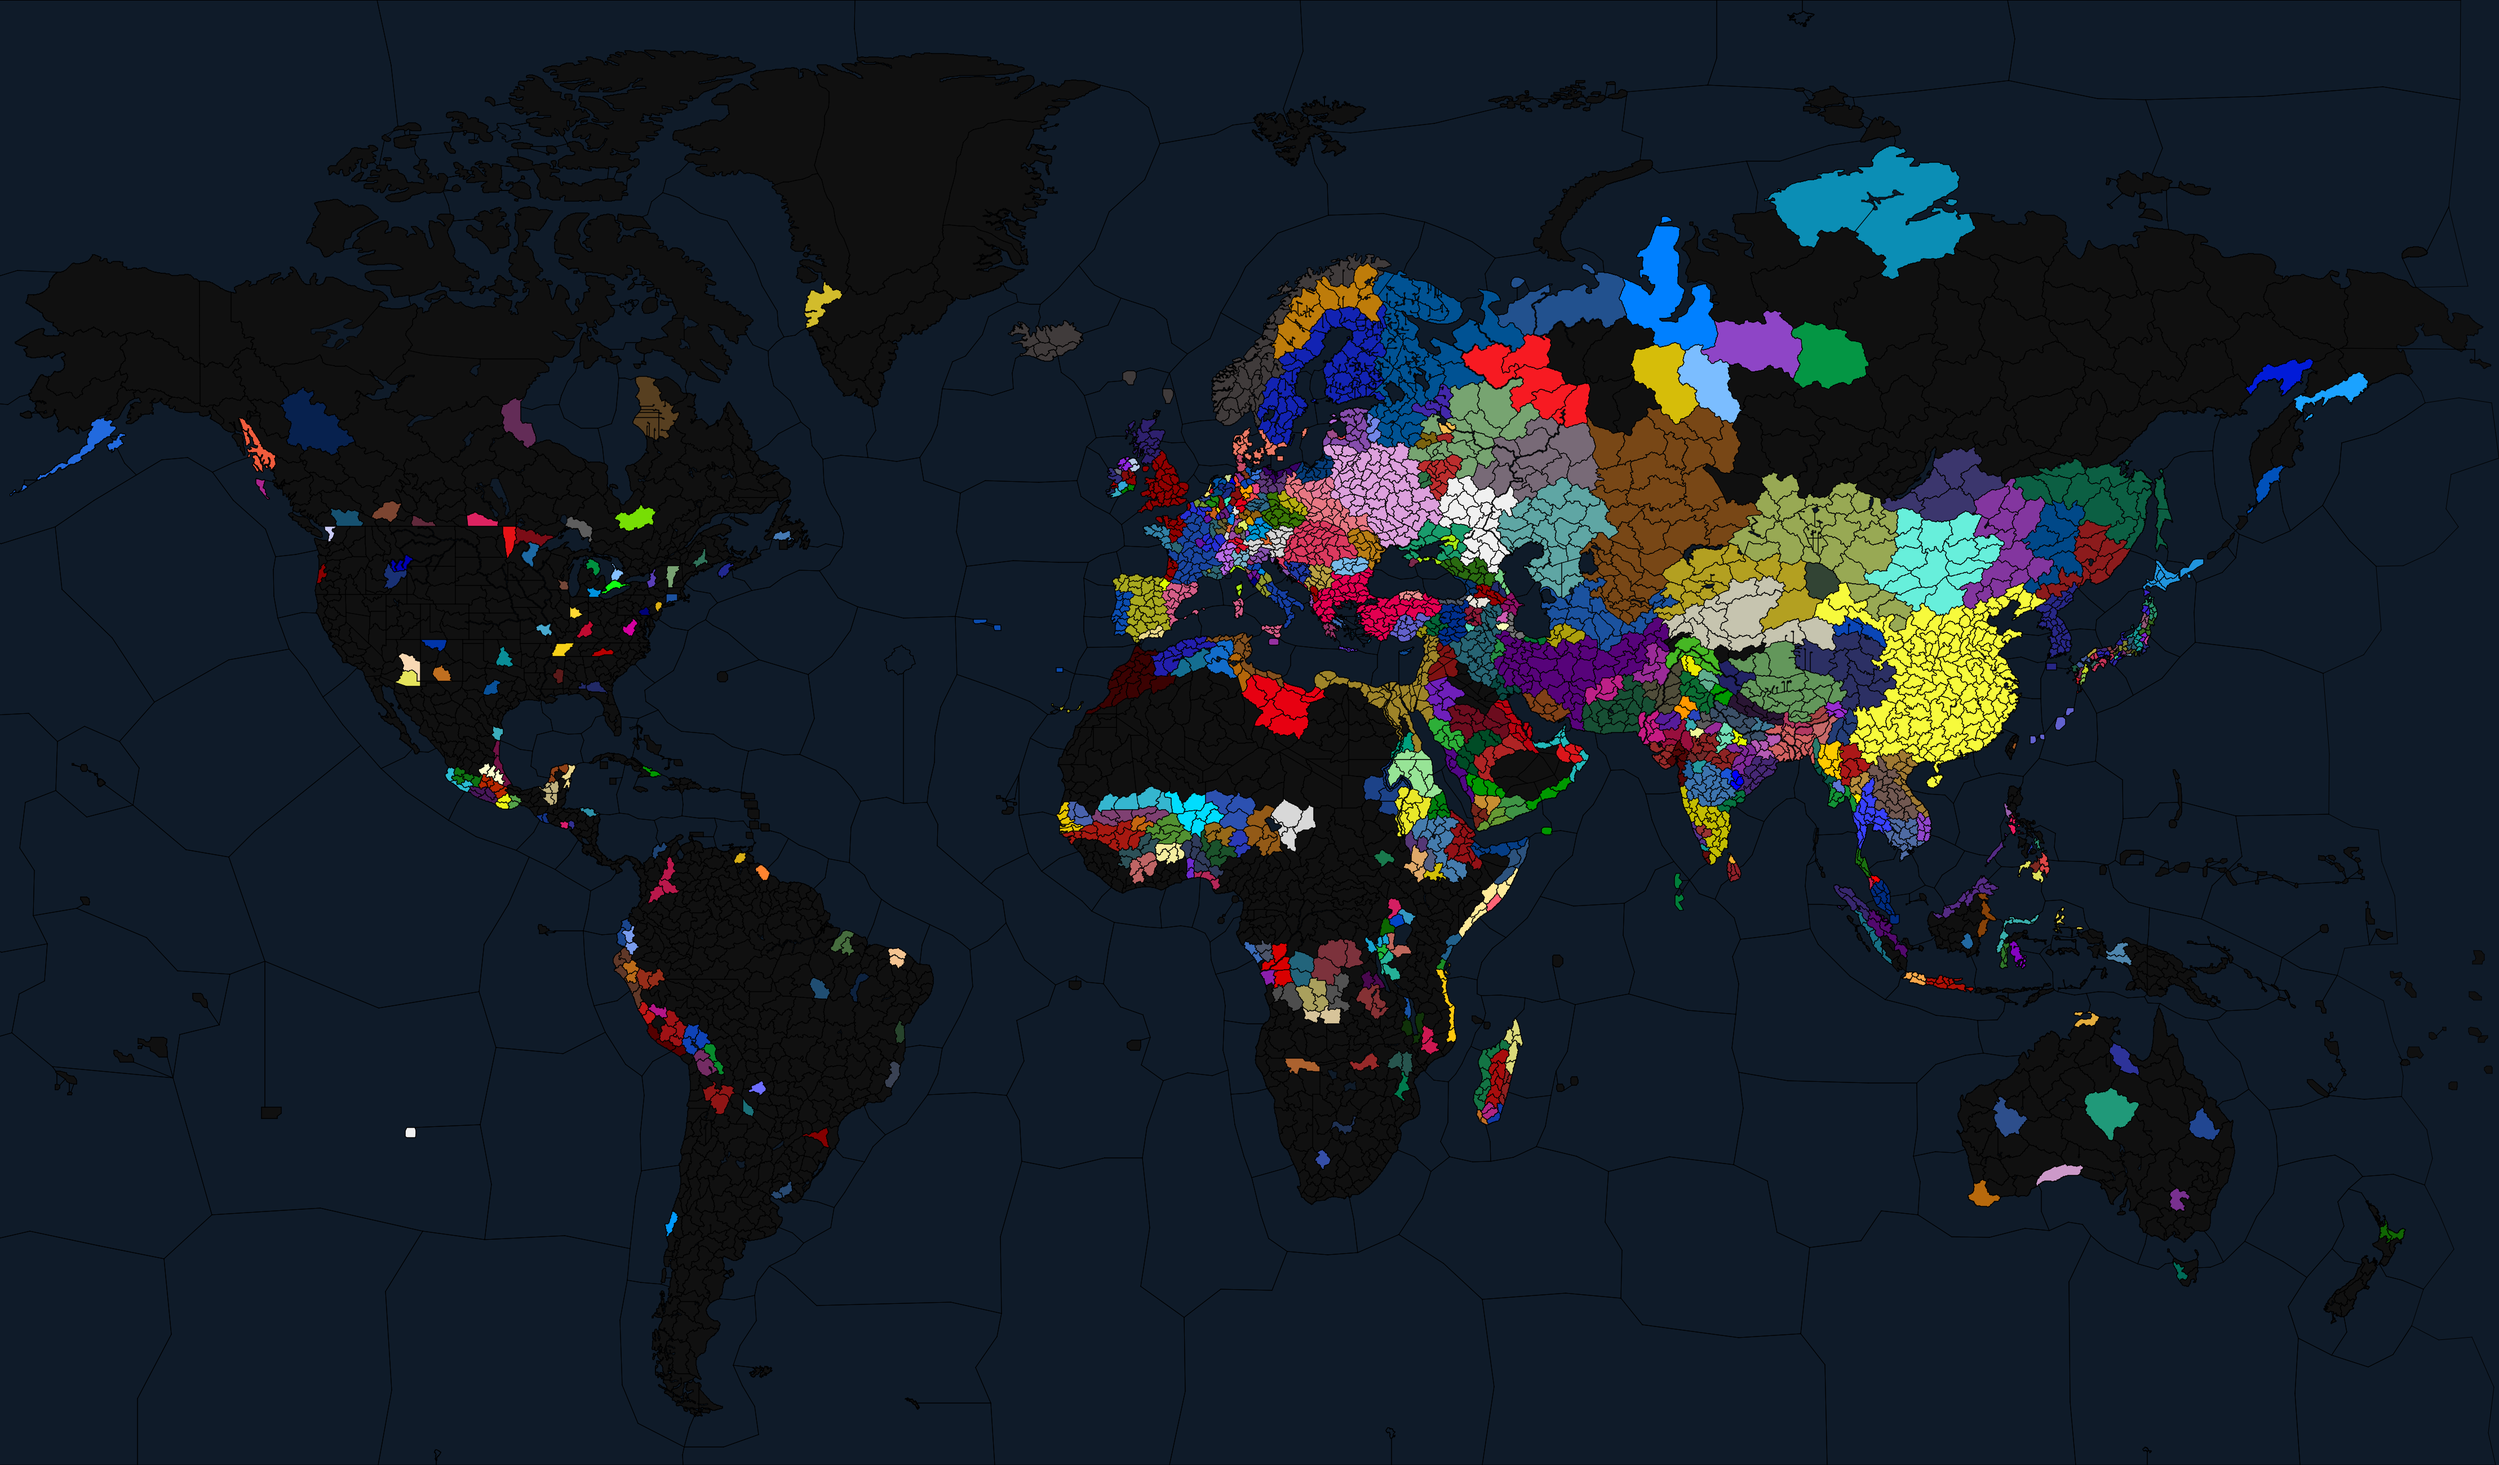
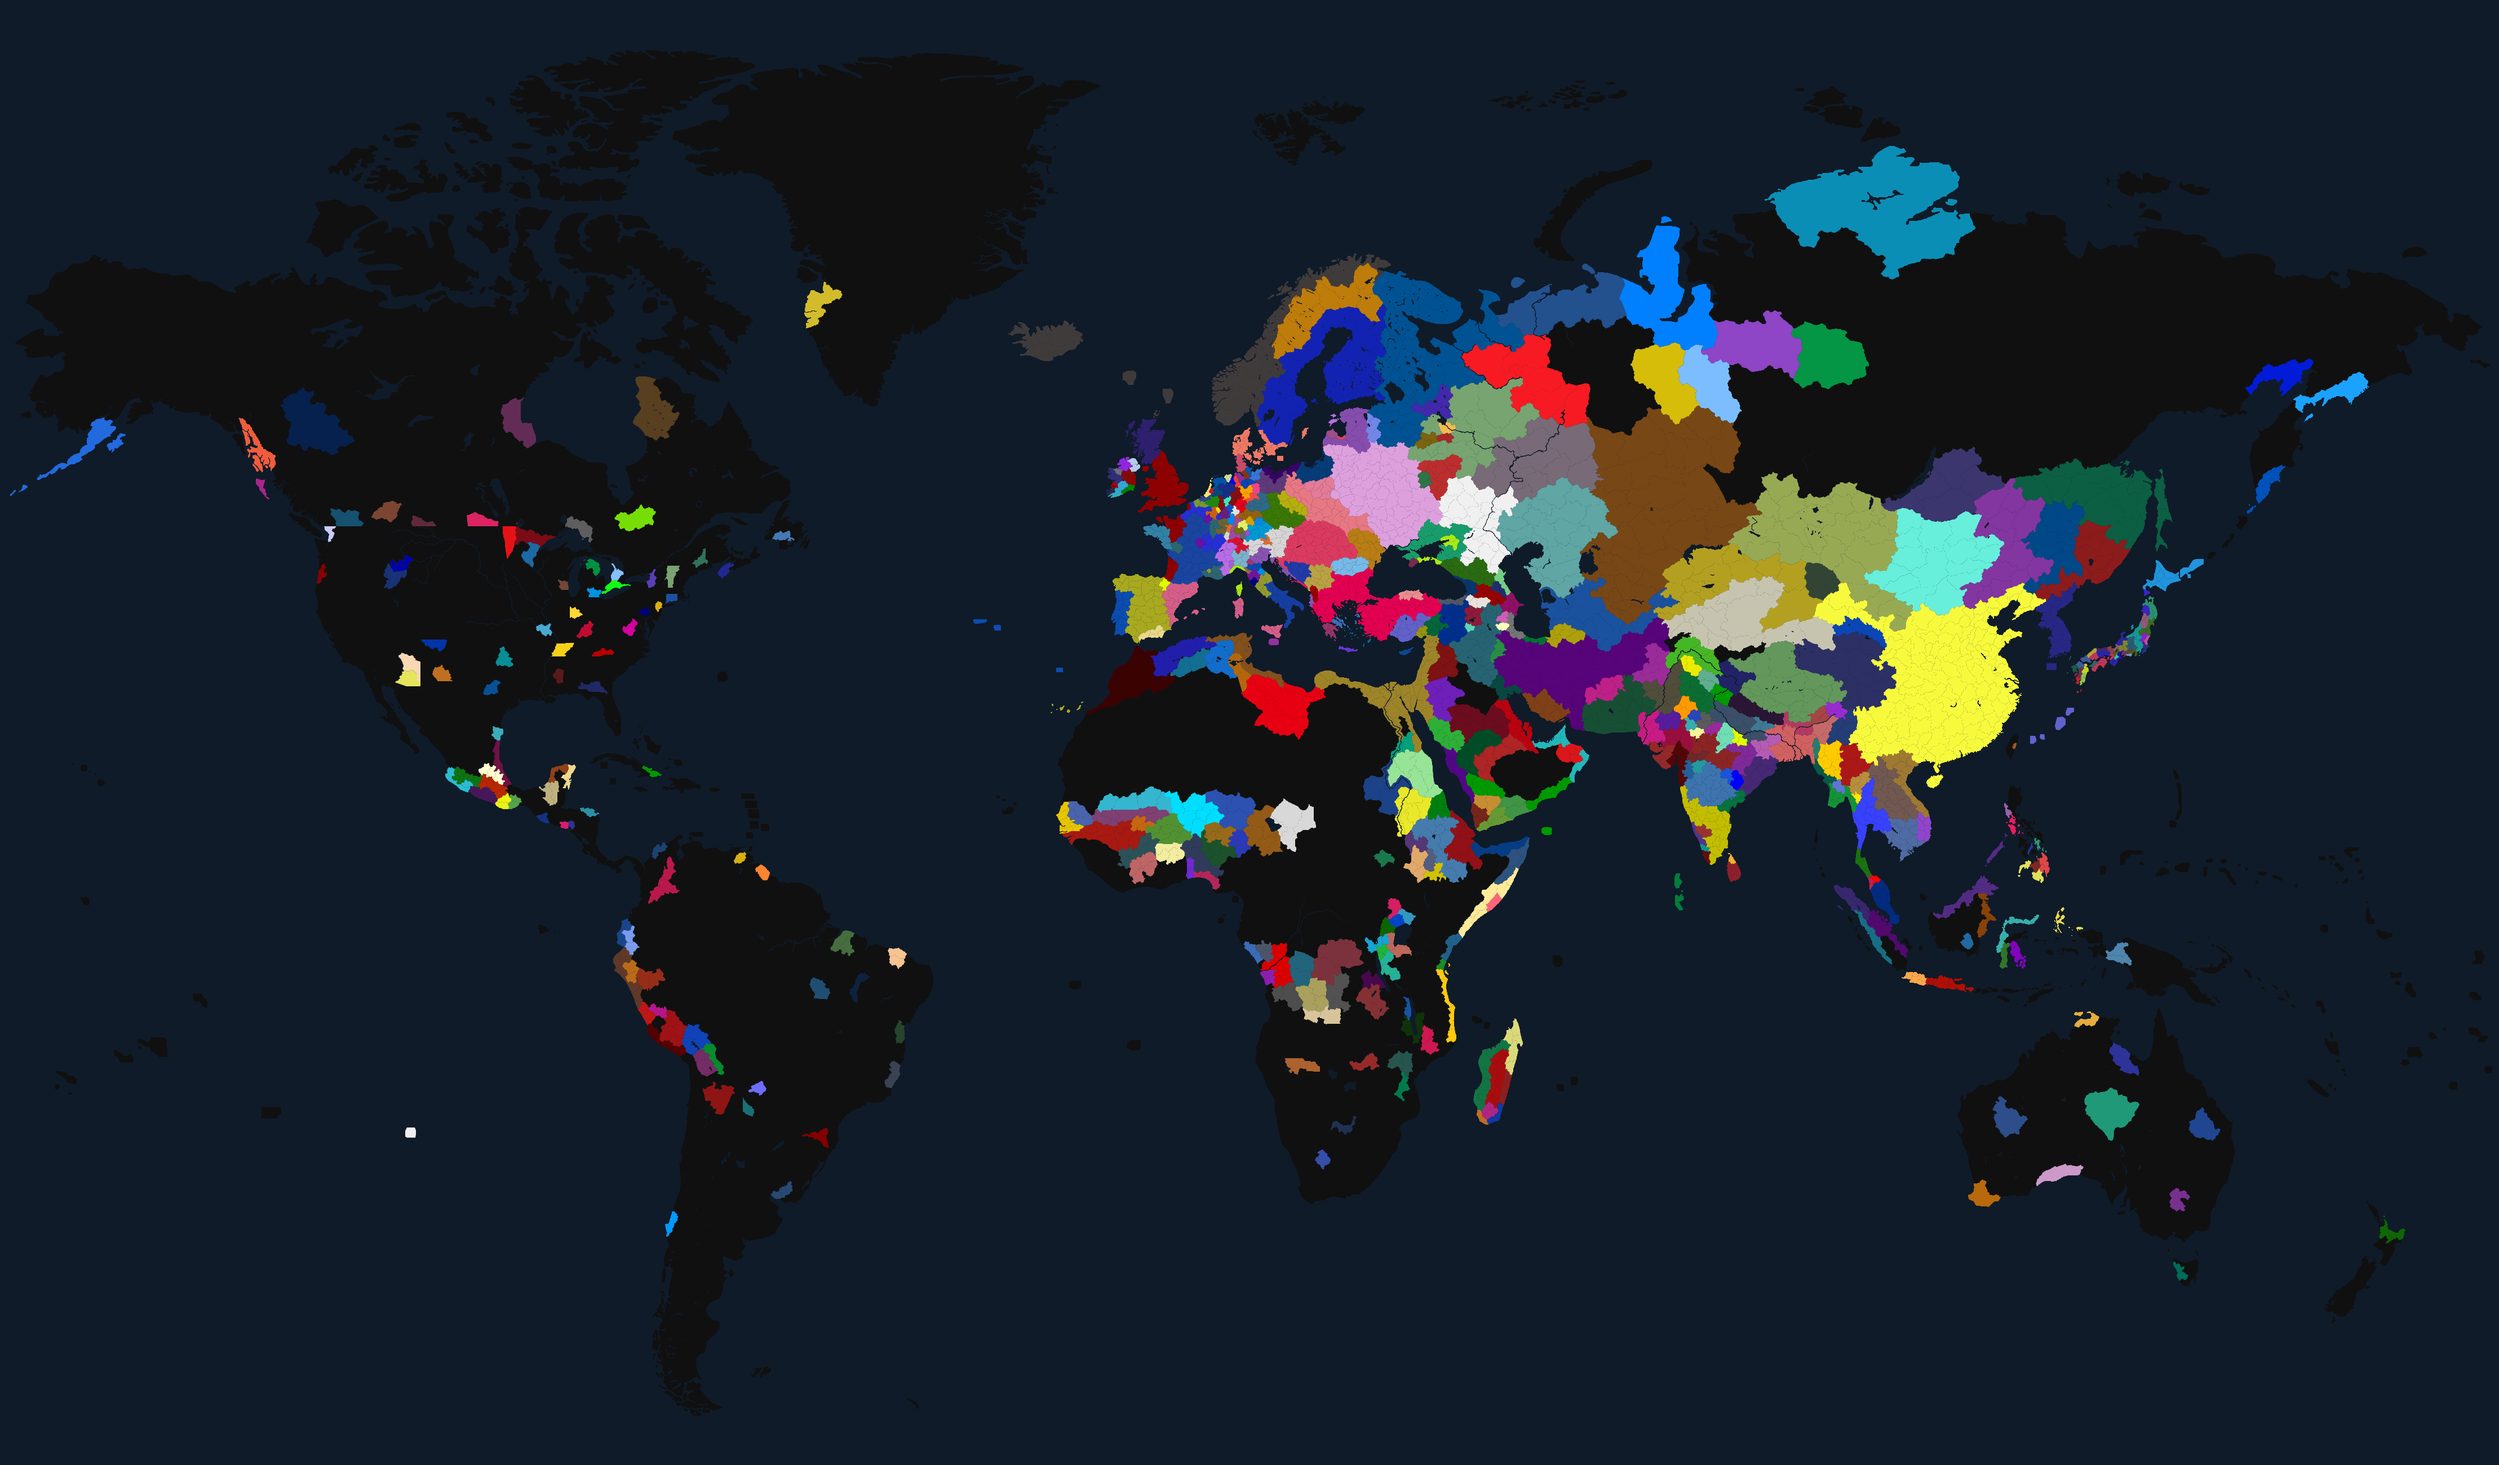
Load province economy from save file

diff --git a/fileio.go b/fileio.go
@@ -21,9 +21,9 @@ const (
 )
 
 type ProvinceBorderGameData struct {
-	WithProvinceID uint32   `json:"withProvinceID"`
-	LPointsX       []uint16 `json:"lPointsX"`
-	LPointsY       []uint16 `json:"lPointsY"`
+	WithProvinceID int   `json:"withProvinceID"`
+	LPointsX       []int `json:"lPointsX"`
+	LPointsY       []int `json:"lPointsY"`
 }
 
 type ProvinceInfo struct {
@@ -67,6 +67,18 @@ type CivilizationColor struct {
 
 type ProvinceOwners struct {
 	LProvinceOwners []int `json:"lProvinceOwners"`
+}
+
+type SaveDataProvinces struct {
+	LProvincesData []SaveProvinceInfo `json:"lProvincesData"`
+}
+
+type SaveProvinceInfo struct {
+	IEconomy int `json:"iEconomy"`
+}
+
+type SaveDataOutput struct {
+	CivEconomyMap map[int]int
 }
 
 type RegionsMapData struct {
@@ -205,6 +217,36 @@ func loadRegionsMap() RegionsMapData {
 		GlobalMaxY:      globalMaxY,
 		AllProvinceData: allProvinceData,
 		AllRegionColors: allRegionColors,
+	}
+}
+
+func loadSavedProvincesData(saveFolder string, allProvinceOwners []int) SaveDataOutput {
+	saveDataBytes, err := parseJsonFile(fmt.Sprintf("data/saves/%v/%v_4", saveFolder, saveFolder))
+	if err != nil {
+		log.Fatal("Failed to read input file: ", err)
+	}
+
+	var saveDataProvinces []SaveDataProvinces
+	err = json.Unmarshal(saveDataBytes, &saveDataProvinces)
+	if err != nil {
+		fmt.Println("Error:", err)
+	}
+	fmt.Println("saveDataProvinces:", saveDataProvinces)
+
+	civEconomyMap := make(map[int]int)
+	for i := 0; i < len(allProvinceOwners); i++ {
+		provinceOwner := allProvinceOwners[i]
+		mapKey := provinceOwner - 1
+		_, ok := civEconomyMap[mapKey]
+		if !ok {
+			civEconomyMap[mapKey] = 0
+		}
+		civEconomyMap[mapKey] += saveDataProvinces[0].LProvincesData[i].IEconomy
+	}
+
+	fmt.Println("Civ economy map:", civEconomyMap)
+	return SaveDataOutput{
+		CivEconomyMap: civEconomyMap,
 	}
 }
 

diff --git a/main.go b/main.go
@@ -7,7 +7,7 @@ import (
 )
 
 const (
-	supportedMapNames = "[regions, 1440, modernworld]"
+	supportedMapNames = "[regions, 1200, 1440, modernworld]"
 )
 
 func main() {
@@ -25,6 +25,9 @@ func main() {
 	if mapName == "regions" {
 		regionsMapData := loadRegionsMap()
 		drawRegionsMap(outputFilename, regionsMapData)
+	} else if mapName == "1200" {
+		scenario := loadScenario("1200")
+		drawScenarioMap(outputFilename, scenario)
 	} else if mapName == "1440" {
 		scenario := loadScenario("1440")
 		drawScenarioMap(outputFilename, scenario)

diff --git a/drawmap.go b/drawmap.go
@@ -17,7 +17,7 @@ func drawScenarioMap(outputFilename string, scenario Scenario) {
 
 	fmt.Println("Drawing map...")
 	drawScenarioRegionColors(dc, scenario.AllProvinceData, scenario.AllProvinceOwners, scenario.AllCivColors)
-	drawProvinceOutline(dc, scenario.AllProvinceData)
+	// drawProvinceOutline(dc, scenario.AllProvinceData)
 
 	dc.SavePNG(outputFilename)
 	fmt.Println("Saved image to", outputFilename)
